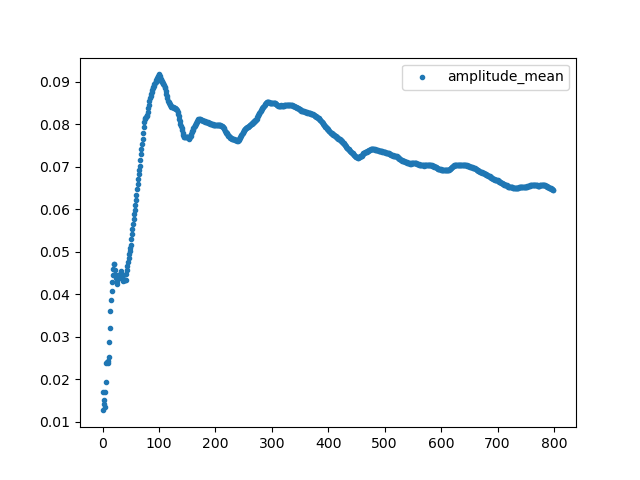
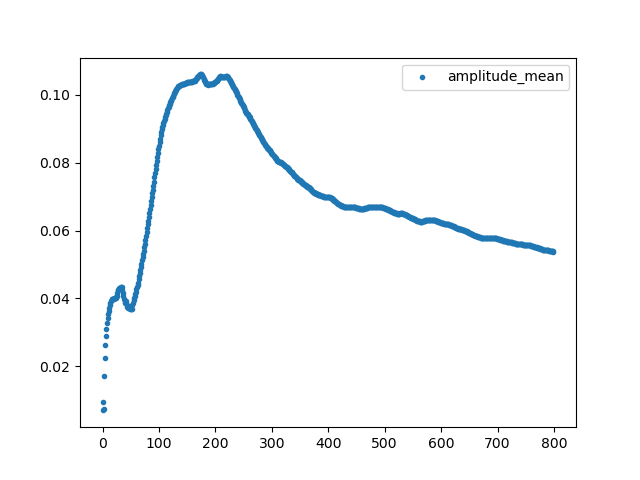
staticmethod

diff --git a/run.py b/run.py
@@ -51,17 +51,6 @@ def plot_save(wavenumber_range, kappa_range, results, title):
   plt.savefig(title + ".png")
   plt.close()
 
-def rand_complex(maxamplitude=1):
-  """
-  random complex number in/on unit (or other) circle
-  uniform distribution in amplitude from 0 to maxamplitude (default 1)
-  distribution not uniform wrt area of circle
-  :return:
-  """
-  amplitude = random.uniform(0,maxamplitude)
-  phase = random.uniform(0, 2*math.pi)
-  return cmath.rect(amplitude, phase)
-
 
 def run_experiment(type, experiment_title, range1, range2, n_steps, plot=True):
   """
@@ -98,7 +87,7 @@ def single_run(kappa,wavenumber, n_steps, method = "simultaneous", field_coeffs=
   """
   ########### initial values ##############
   if field_coeffs is None:
-    field_coeffs = dict([(i, rand_complex()) for i in range(-1 * num_field_coeffs, num_field_coeffs + 1)])
+    field_coeffs = dict([(i, metropolis_engine.MetropolisEngine.gaussian_complex()) for i in range(-1 * num_field_coeffs, num_field_coeffs + 1)])
   if amplitude is None:
     amplitude = 0
   ########### setup #############

diff --git a/metropolis_engine.py b/metropolis_engine.py
@@ -234,7 +234,8 @@ class MetropolisEngine():
     phi = random.uniform(-math.pi, math.pi)
     return cmath.rect(r, phi)
 
-  def gaussian_complex(self, sigma=1):
+  @staticmethod
+  def gaussian_complex(sigma=1):
     """
     a random complex number with completely random phase and amplitude drawn from a gaussian distribution with given width sigma (default 1)
     :param sigma: width of gaussian distribution (centered around 0) of possible magnitude of complex number
